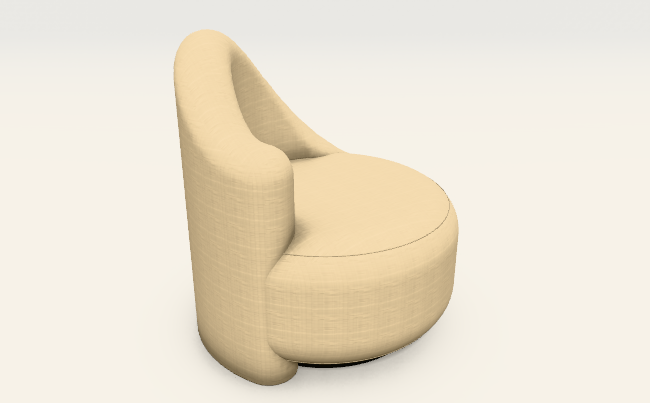
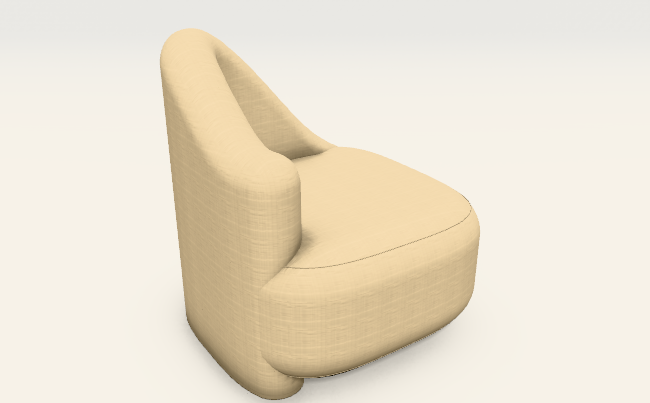
Pebble: zitting als afgeronde rechthoek, zoals op de foto
- Kuipvorm Organisch: grondvlak afgerond in plaats van rond (zitting en
  schaal), ook in het boven- en vooraanzicht.
- De scheve schaal wordt fijn bemonsterd en op gelijke afstanden
  herverdeeld; de hoogte volgt de afstand langs de wand. Op gelijke hoeken
  golfde de bovenkant bij een afgerond grondvlak.
- Beeldvergelijking: alleen pebble-schuin veranderde, referentie vernieuwd.

Claude-Session: https://claude.ai/code/session_01PczewFp9M8BS44vqTSpk6u

diff --git a/packages/core/src/kuip.ts b/packages/core/src/kuip.ts
@@ -98,8 +98,20 @@ export function kuipOpbouw(B: number, D: number, h: { P: number; zithoogte: numb
     // Van rechtsachter (−30°) over het midden achteraan (−90°) naar linksvoor (−90° − boog); het hoogst linksachter (−140°).
     // Het stijgende stuk rechts is lang genoeg om niet te steil te worden (een te steile bovenkant gaf vlekjes in de 3D).
     const tRechts = -30, tLinks = -90 - k.boog, tTop = -140;
-    pad = superellips(cx, cy, B / 2 - w / 2, D / 2 - w / 2, n, tRechts, tLinks, stappen * 2);
-    const uTop = (tRechts - tTop) / (tRechts - tLinks);
+    // Eerst fijn bemonsterd, dan op gelijke afstanden langs de wand: bij een afgerond grondvlak liggen punten op gelijke
+    // hoeken ongelijk verdeeld, en dan golfde de bovenkant (de hoogte volgt de afstand langs de wand, niet de hoek).
+    const F = 600, fijn = superellips(cx, cy, B / 2 - w / 2, D / 2 - w / 2, n, tRechts, tLinks, F);
+    const afstand = [0];
+    for (let i = 1; i <= F; i++) afstand.push(afstand[i - 1]! + Math.hypot(fijn[i]![0] - fijn[i - 1]![0], fijn[i]![1] - fijn[i - 1]![1]));
+    const totaal = afstand[F]!, N = stappen * 2 + 1;
+    let j = 0;
+    pad = Array.from({ length: N }, (_, i) => {
+      const doel = (totaal * i) / (N - 1);
+      while (j < F - 1 && afstand[j + 1]! < doel) j++;
+      const f = Math.max(0, Math.min(1, (doel - afstand[j]!) / (afstand[j + 1]! - afstand[j]! || 1)));
+      return [rond1(fijn[j]![0] + f * (fijn[j + 1]![0] - fijn[j]![0])), rond1(fijn[j]![1] + f * (fijn[j + 1]![1] - fijn[j]![1]))] as Punt;
+    });
+    const uTop = afstand[Math.round(((tRechts - tTop) / (tRechts - tLinks)) * F)]! / totaal;
     // Links vooraan nog ±half de hoogte boven de zitting (de schaal staat daar tot op de vloer). Rechts verdwijnt de schaal
     // in de zitting: haar bovenkant eindigt 3 cm onder de zitting, niet erop (twee vlakken op dezelfde hoogte flikkeren).
     const links = voor + (rug - voor) * 0.5, rechts = zitBoven - 3;

diff --git a/packages/core/voorbeelden/vrij-ontwerp.ts b/packages/core/voorbeelden/vrij-ontwerp.ts
@@ -208,7 +208,7 @@ export const zetelOpties: OptieGroep[] = [
       { code: 'afgerond', label: 'Afgerond met armen', uitleg: 'Afgeronde rug die naar armhoogte zakt en vlak doorloopt', teken: { vorm: 'afgerond', plan: 'afgerond', dikte: 13, boog: 130, voorBoven: 17, armVanaf: 0.6 } },
       { code: 'omhullend', label: 'Omhullend', uitleg: 'Wand loopt ver rond, armen laag vooraan', teken: { vorm: 'omhullend', plan: 'rond', dikte: 17, boog: 140, voorBoven: 9, armVanaf: 1 } },
       { code: 'trommel', label: 'Trommel', uitleg: 'Ronde trommel, rondom even hoog, met losse rugkussens', teken: { vorm: 'trommel', plan: 'rond', dikte: 14, boog: 138, voorBoven: 22, armVanaf: 1, vlak: true } },
-      { code: 'organisch', label: 'Organisch', uitleg: 'Zachte kiezel als zitting; de schaal is aan één kant hoog en loopt aan de andere kant schuin in de zitting weg', teken: { vorm: 'organisch', plan: 'rond', dikte: 16, boog: 118, voorBoven: 1, armVanaf: 1, organisch: true, scheef: true } },
+      { code: 'organisch', label: 'Organisch', uitleg: 'Zachte kiezel als zitting; de schaal is aan één kant hoog en loopt aan de andere kant schuin in de zitting weg', teken: { vorm: 'organisch', plan: 'afgerond', dikte: 16, boog: 118, voorBoven: 1, armVanaf: 1, organisch: true, scheef: true } },
       { code: 'schelp', label: 'Schelp op frame', uitleg: 'Dunne, gebogen rugschaal boven de zitting, op het frame', teken: { vorm: 'schelp', plan: 'afgerond', dikte: 6, boog: 98, voorBoven: 20, armVanaf: 1, zwevend: true } },
       { code: 'hoekig', label: 'Hoekig', uitleg: 'Rechte rug en armen', teken: { vorm: 'hoekig' } },
     ],

diff --git a/docs/overdracht.md b/docs/overdracht.md
@@ -22,7 +22,7 @@
 | **Overstap naar WebGPU (4/11)** | Na de proeven (verslag `docs/proeven/3d-motor-proeven-0411.md`) alles samengevoegd: weefselkaarten, glas met transmission, scherpere omgeving en de lichtsfeer *Fotostudio* (HDRI, CC0), fotomodus op WebGPU met ontruiser. Daarna de hele 3D (zeteldemo en bouwdemo) op `WebGPURenderer`:<br>• WebGPU waar de browser het heeft (de M5 in de toonzaal: Safari 27.2, adapter Apple, shader-f16), anders automatisch WebGL2 met hetzelfde beeld;<br>• schaduw in hoeken (kwaliteit *Mooi*) opnieuw gebouwd met de nabewerking van WebGPU (TSL: GTAO + ontruisen);<br>• fotomodus: WebGPU-path tracer met ontruiser, anders de oude op een tijdelijke WebGL-renderer;<br>• beelden van het canvas via `viewer.beeld()` (offerte); de slagschaduw is zachter dan vroeger (VSM van WebGPU).<br>• **Getest:** alleen de WebGL2-weg (in de cloud is er geen WebGPU): vijf zetels, woning en raam tegenover de vorige versie, *Snel* en *Mooi*, fotomodus en offerte. **WebGPU zelf nog te testen op de M5.** Pagina ±6,4 MB (HDRI 2,2 MB en WebGPU-onderdelen). |
 | **Schaduw volgt de vorm (5/11)** | Melding van Jonas: "De schaduw volgt niet de vorm van het object." Twee oorzaken gevonden (ook al vóór WebGPU):<br>• de contactschaduw onder de zetel was een rechthoek per onderdeel (ronde poef: vierkante schaduw; Doha: rechthoekige vlek voorbij de ronde uiteinden). Nu de echte grondvorm per onderdeel;<br>• de verdekte voet was altijd vierkant en stak onder ronde fauteuils (Pebble) uit: een harde, zwarte plaat. Nu dezelfde vorm als het meubel, 10 cm naar binnen.<br>• Prijs, offerte, boven- en vooraanzicht ongewijzigd. Getest op de WebGL2-weg (Doha, Kotor, Pebble, Stockholm). **Nog na te kijken op de M5:** de zonneschaduw via WebGPU (VSM); ziet die er nog verkeerd uit, dan een schermafbeelding met model en toestel. |
 | **Gratis hulpmiddelen en beeldvergelijking (5/11)** | Advies over gratis hulpmiddelen in `docs/3d-technieken.md` (Material Maker, DeepBump, Real-ESRGAN, HDRI's; in three.js: SSS, TRAA, SSGI, SSR, Inspector).<br>• **Getest, niet opgenomen:** fijne contactschaduw (SSS) en TRAA bij *Mooi*: geen zichtbare winst, wel extra rekenwerk (beeld `docs/afbeeldingen/proef-sss-traa.jpg`, verslag in `docs/proeven/3d-motor-proeven-0411.md`).<br>• **Nieuw:** `npm run beelden`: vaste reeks van 10 beelden (zetels, poef, woning, raam) tegenover de referentie in `beeldtest/referentie/`, verschil in het rood (`beeldtest/LEESMIJ.md`). Proef: de fout van vandaag (vierkante voet) tijdelijk teruggezet en gemeld.<br>• Texturen van vloer, wand en hout met een vaste toevalsreeks: hetzelfde parket bij elke keer laden.<br>• Volgende stap volgens het advies: stoffen maken met Material Maker en DeepBump; SSGI als proef op de M5. |
-| **Pebble afgewerkt (5/11)** | Melding: "de vormen lopen door elkaar", met de productfoto. De zitting is nu één zachte kiezel in de stof (geen donkere onderbouw met los kussen); de schaal staat scheef zoals op de foto (links hoog en tot vooraan op de vloer, rechts schuin in de zitting), met ronde uiteinden en een zachte vouw tegen de zitting. Lichte vlekjes op de oplopende schaal opgelost in de motor voor zachte vormen. Verandert: 3D en boven- en vooraanzicht van Pebble (ook de tekening in de offerte); prijs en offertetekst niet; andere kuipfauteuils niet. Beeldvergelijking: alleen `pebble-schuin` veranderde, de 9 andere bleven 0,00 %. Benadering uit één foto: na te kijken met een tweede foto of bij de klant. Uitleg en beeld in `docs/zachte-vormen.md`. 249 tests. |
+| **Pebble afgewerkt (5/11)** | Melding: "de vormen lopen door elkaar", met de productfoto. De zitting is nu één zachte kiezel in de stof (geen donkere onderbouw met los kussen); de schaal staat scheef zoals op de foto (links hoog en tot vooraan op de vloer, rechts schuin in de zitting), met ronde uiteinden en een zachte vouw tegen de zitting; de zitting is een afgeronde rechthoek, niet rond. Lichte vlekjes op de oplopende schaal opgelost in de motor voor zachte vormen. Verandert: 3D en boven- en vooraanzicht van Pebble (ook de tekening in de offerte); prijs en offertetekst niet; andere kuipfauteuils niet. Beeldvergelijking: alleen `pebble-schuin` veranderde, de 9 andere bleven 0,00 %. Benadering uit één foto: na te kijken met een tweede foto of bij de klant. Uitleg en beeld in `docs/zachte-vormen.md`. 249 tests. |
 | **3D-kennisbank en advies ramen en deuren (4/11)** | `docs/3d-technieken.md` (in Obsidian: *3D-technieken - kennisbank*):<br>• alle 3D-technieken op een rij (blokken, eigen doorsnede, zachte vormen, doorlopende opbouw, boog, echt 3D-bestand, weergave, snelheid): wat ze doen, waarvoor wel en niet, rekentijd, waar in de code;<br>• de lessen (eigen vorm per type, eerst de opbouw, grote foto's van de productpagina, vergelijkingsbeeld, benaderingen markeren, 3D-keuze kan de prijs raken);<br>• een werkwijze voor een nieuw model of product;<br>• **advies ramen en deuren** (vraag: "is deze techniek voor 3D bruikbaar voor ramen en deuren?", nog niet gebouwd): de zachte vormen niet; wel een eigen doorsnede per profielsysteem (verstek, doorsnedetekening, rondboog; DXF van de leverancier), echte 3D-bestanden voor krukken en trekbeugels; de weergave is al gedeeld. |
 | **Doorlopende zetel: Doha en Montego (4/11)** | Melding: "Montego en Doha zien er in de 3D identiek uit" en "groot verschil qua opbouw" met de foto; daarna "we maken progressie maar is nog niet af". Oorzaak: beide waren losse elementen naast elkaar; op de foto's (de grote van de productpagina's) is elk één doorlopende zetel.<br>• **Nieuw in de vormgeving van de zetel:** *Opbouw in 3D* (*Per element* of *Doorlopend (één zetel)*) en *Boog bij doorlopend* (0–60 cm, de uiteinden naar voren). Motor: `core/src/doorlopend.ts`.<br>• **Doorlopend:** met losse zitkussens twee ronde banden (zitting rondom, onderbouw 3 cm terug, diepe naad), met een vaste zitting één ronde vorm; één rug langs de achterkant. Bij een afgerond uiteinde volgt de rug *Rug bij de ronde kant*: *rond* = korte omloop als armleuning op volle hoogte (tot ±32 % van de diepte), *recht* = de rug stopt met een ronde kop ±40 % van het eindelement ver en de zitting loopt verder. Een dieper element loopt vloeiend over in de rest (1,6 × het diepteverschil aan elke kant, 25–70 cm). Onderbouw en rug zijn één zachte vorm, ook bij *Blokken*.<br>• **Doha:** loungedeel links 145 cm diep, zitting 22 cm, armleuningen aan beide kanten, oranje en lichtgrijs sierkussen. **Montego:** vaste zitting, rug aan beide kanten alleen op het rechte deel, boog van 30 cm. Allemaal benaderingen uit de foto's.<br>• **Schaduw:** buren met een vrije omtrek (zitkussen) of gebogen wand tellen nu met hun echte vorm (vroeger als doos rond hun kader: grijze vlekken waar niets staat); het zitkussen krijgt schaduw van de rug.<br>• **Rekenen:** in de achtergrond (eerst de gewone vorm), ±0,3–0,7 s; tabellen in het grondvlak voor lange omtrekken en wanden (2 à 3 × sneller).<br>• **Blijft per element:** prijs, offerte, boven- en vooraanzicht (de boog alleen in 3D). Let op: de offerte toont dus in 3D één zetel en in de tekeningen de losse elementen. Alleen een rechte rij: bij een hoeksofa doet alleen de langste rechte rij mee (niet getest).<br>• Beeld: `docs/afbeeldingen/doorlopende-zetel.jpg`; uitleg in `docs/zachte-vormen.md`. |
 | **Strakke arm met eigen vorm (4/11)** | Na de zachte vormen: de strakke arm (16 van de 21 modellen met armen) is een eigen doorsnede (`strakProfiel` in `ruimtelijk.ts`), in alle weergaven en in het vooraanzicht.<br>• **Vorm:** zacht afgeronde, licht bolle bovenkant, licht bolle zijkanten, een voorpaneel met afgeronde rand dat in het midden bol staat; hoe zacht volgt de zachtheid van het model. Met een hoes loopt de arm tot op de vloer (Husk).<br>• **Naad of bies rond het voorpaneel** van elke arm met een eigen vorm (ook Wallace), volgens *Naden*.<br>• **Sneller:** grote zetels (meer dan 3 m³) met een raster van 2,5 cm bij *Zacht*; ±0,2–0,7 s per sofa.<br>• **Nog als balk:** rolarm, Engels, schuin, met houten blad, en de rug en onderbouw.<br>• Beeld: `docs/afbeeldingen/strakke-arm.jpg`; uitleg in `docs/zachte-vormen.md`. |

diff --git a/.claude/skills/zetel-3d/SKILL.md b/.claude/skills/zetel-3d/SKILL.md
@@ -180,7 +180,7 @@ Lees opties via `gekozenOpties(ontwerp, catalogus, e)` en `te(groep, veld, stand
 ## Valkuilen
 - Vergeet de rotatie niet: test elke nieuwe vorm bij 0, 90, 180 en 270.
 - Vooraanzicht: achterste elementen eerst tekenen (sortering op voorrand), anders bedekken ze de voorste.
-- Kuipvorm *Organisch* (Pebble, 5/11): `kiezel` in `ruimtelijk.ts`: `e1.basis` = één zacht blok (soort `kussen`, `glad`, stofkleur) van P tot zithoogte, geen `zitkussen`; `e1.rug` = kuipwand `glad` (eigen zachte vorm, ronde uiteinden uit de capsule) die bij P ≤ 8 op y = −3 begint (platte onderkant onder de vloer, anders rafels). Zitting en schaal bewust in aparte groepen (kussen vs stof): samen gaf één klomp zonder vouw. De schaal is scheef (`KuipParameters.scheef`, in `kuipOpbouw`, dus ook boven- en vooraanzicht): van −30° (rechtsachter, top 3 cm onder de zitting) over −140° (hoogst) naar −90° − boog (linksvoor, ±half boven de zitting); teken `plan: 'rond', dikte: 16, boog: 118`. Een te steile stijging of een afgerond grondvlak gaf vlekjes; twee vlakken op zithoogte flikkerden.
+- Kuipvorm *Organisch* (Pebble, 5/11): `kiezel` in `ruimtelijk.ts`: `e1.basis` = één zacht blok (soort `kussen`, `glad`, stofkleur) van P tot zithoogte, geen `zitkussen`; `e1.rug` = kuipwand `glad` (eigen zachte vorm, ronde uiteinden uit de capsule) die bij P ≤ 8 op y = −3 begint (platte onderkant onder de vloer, anders rafels). Zitting en schaal bewust in aparte groepen (kussen vs stof): samen gaf één klomp zonder vouw. De schaal is scheef (`KuipParameters.scheef`, in `kuipOpbouw`, dus ook boven- en vooraanzicht): van −30° (rechtsachter, top 3 cm onder de zitting) over −140° (hoogst) naar −90° − boog (linksvoor, ±half boven de zitting); teken `plan: 'afgerond', dikte: 16, boog: 118`. Het pad wordt fijn bemonsterd en op gelijke afstanden herverdeeld; de hoogte volgt de afstand langs de wand (op gelijke hoeken golfde de bovenkant bij een afgerond grondvlak). Een te steile stijging gaf vlekjes; twee vlakken op zithoogte flikkerden.
 - `zachtevorm.ts` `wand`: op een hoekpunt van het pad (t geklemd, niet aan een uiteinde) de gemiddelde helling van de twee stukken ernaast in de normaal, niet nul (vlekjes om de 2 cm op een oplopende, gebogen wand).
 - Ronde elementen: poten en verdekte voet naar binnen zetten, anders steken ze buiten de ronding uit. Sinds 5/11 krijgt de verdekte voet onder een staande cilinder (ronde poef) of een blok met `omtrek` (kuipfauteuil) dezelfde vorm, 10 cm naar binnen (`ruimtelijk.ts`, na de opbouw van het element; niet bij `rond`, dat heeft `verdekt-rond`). Het vooraanzicht blijft een rechthoek.
 - Contactschaduw (`zetContactschaduw` → `tekenGrondvorm` in `drie-d.ts`): per blok onder 25 cm de echte grondvorm op een canvas (omtrek, ellips voor staande cilinder/kegel, `roundRect` met afronding, `draai` rond het midden, kuipwand als dikke lijn langs `pad`, profiel als strook over het onderste deel van de doorsnede), vervaagd via `shadowBlur` met de vorm 2000 px links buiten beeld. Nooit terug naar het kader per blok.

diff --git a/docs/zachte-vormen.md b/docs/zachte-vormen.md
@@ -182,7 +182,8 @@ Nu:
   (`ruimtelijk.ts`).
 - **Schaal:** een eigen zachte vorm (`glad`) met ronde uiteinden. Ze loopt van rechtsachter (3 cm onder de zitting, dus
   in de zitting) over de rug, het hoogst linksachter, tot linksvoor op ±half de hoogte boven de zitting (`kuip.ts`,
-  `scheef`). Ronde plattegrond, 16 cm dik. Zitting en schaal smelten bewust **niet** samen: dan werd het één klomp. Apart
+  `scheef`). 16 cm dik. Plattegrond (zitting en schaal): een afgeronde rechthoek zoals op de foto, niet rond. De punten
+  van de schaal liggen op gelijke afstanden (anders golfde de bovenkant bij een afgeronde rechthoek). Zitting en schaal smelten bewust **niet** samen: dan werd het één klomp. Apart
   blijft er een zachte vouw waar de schaal tegen de zitting drukt.
 - **Op de vloer:** de schaal begint 3 cm onder de vloer, zodat haar platte onderkant (die rafels gaf) niet te zien is.
 - **Lichte vlekjes** op een oplopende, gebogen wand: op de knikpunten van het pad rekende de motor de helling als nul.
@@ -193,8 +194,7 @@ tekening in de offerte). Het vooraanzicht toont de zitting nog als kussen op een
 veranderen niet; de andere kuipfauteuils (Tumble, Manon, Satie …) blijven zoals ze waren (tests). Kussendikte en
 comfort zie je bij Pebble niet meer in 3D (één blok).
 
-Benadering uit één kleine foto (400 px, één standpunt): hoe ver de schaal links naar voren loopt, de dikte en de
-plattegrond van de zitting (op de foto eerder een afgeronde rechthoek; een afgerond grondvlak gaf vlekken op de schaal)
-moeten op een tweede foto of bij de klant nagekeken worden.
+Benadering uit één kleine foto (400 px, één standpunt): hoe ver de schaal links naar voren loopt, de dikte van de schaal
+en hoe hoekig de zitting is, moeten op een tweede foto of bij de klant nagekeken worden.
 
-![Pebble: de productfoto, vanmorgen, nu in drie standpunten en het vooraanzicht](afbeeldingen/pebble-kiezel.jpg)
+![Pebble: de productfoto, vanmorgen, nu schuin, van voren, van boven en het vooraanzicht](afbeeldingen/pebble-kiezel.jpg)

diff --git a/docs/3d-technieken.md b/docs/3d-technieken.md
@@ -179,7 +179,8 @@ Beeld van de proef: `docs/afbeeldingen/proef-sss-traa.jpg`.
   rekenen hun geschiedenis maar één keer per schermbeeld bij, dus snel na elkaar tekenen helpt niet.
 - **Een gebogen wand die oploopt:** op de knikpunten van het pad moet de helling meetellen (gemiddelde van de stukken
   ernaast), anders lichte vlekjes om de 2 cm. Hou de stijging ook niet te steil, en laat een wand niet eindigen op
-  exact de hoogte van een ander vlak (flikkeren): liever een paar cm erin.
+  exact de hoogte van een ander vlak (flikkeren): liever een paar cm erin. Verdeel de punten op gelijke afstanden en
+  laat de hoogte de afstand volgen, niet de hoek: bij een afgeronde rechthoek golfde de bovenkant anders.
 - **Geen Math.random in texturen:** dan ziet het parket er bij elke keer laden anders uit, en kan de beeldvergelijking
   niets vergelijken. Gebruik `vasteReeks(sleutel)` in `drie-d.ts`.
 - **Meer:** de skills `zetel-3d` (`.claude/skills/zetel-3d/SKILL.md`) en `bouw-woning`
